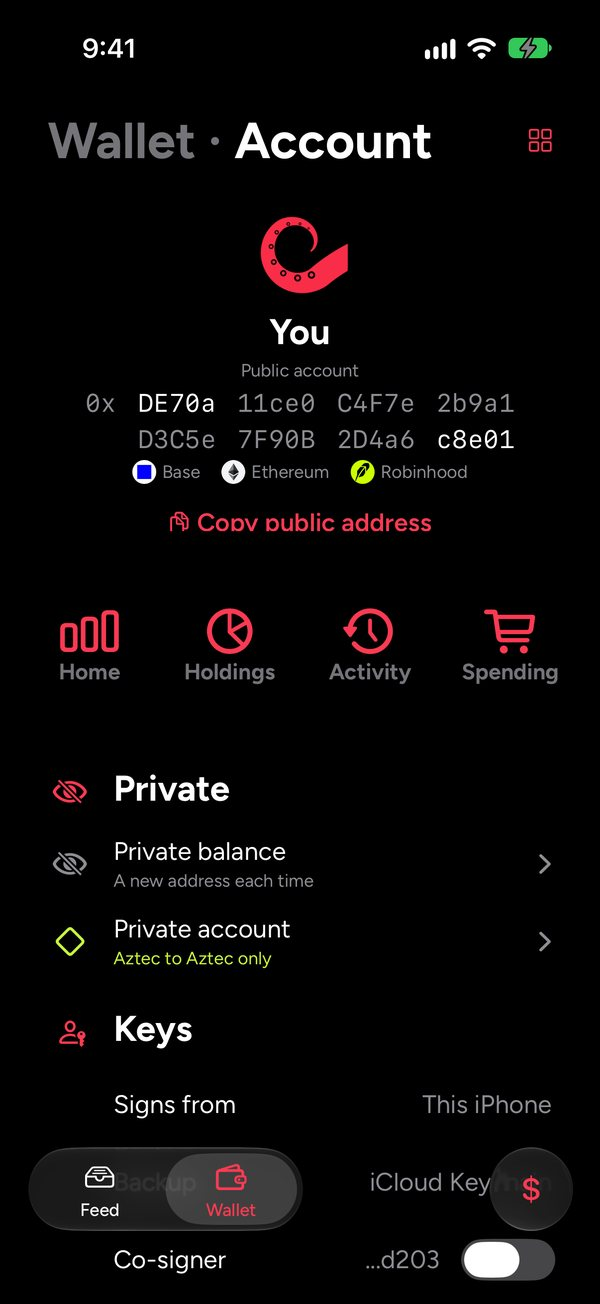
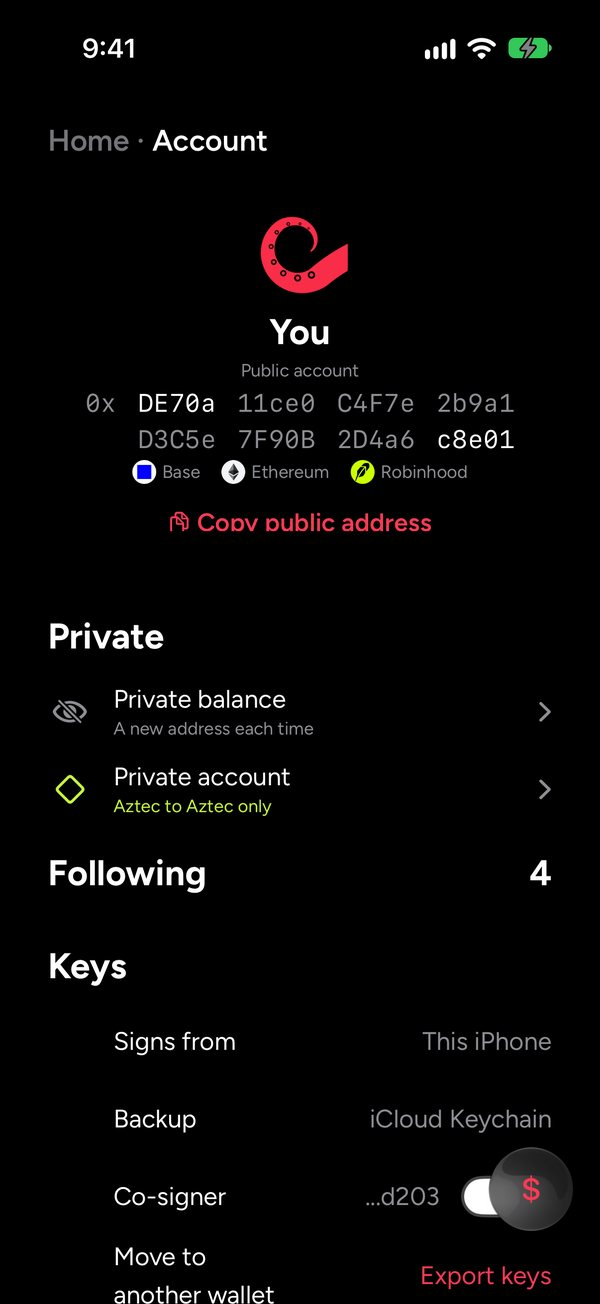
Website docs follow the one-wallet app: Home, Activity, and Move alone on the bar
The docs still described a Feed and Wallet bar. Since prd §1807 to §1814
the app is one wallet: Home is the balance over its map and six cards,
Activity is what needs you and one row per app, the bar is Move alone, Apps
is a card on Home, Risks holds Permissions, and Account holds Following and
Casberi's settings. Every page swipes right to its parent.

Home now comes before Activity, as in the app. The seven pictures are
today's screens (build 1009's demo). llms-full.txt and the FAQ's structured
data are rebuilt from the page; llms.txt and the law digest's shell line
follow.

diff --git a/website/docs.html b/website/docs.html
@@ -4,7 +4,7 @@
 <meta charset="utf-8">
 <meta name="viewport" content="width=device-width, initial-scale=1">
 <title>Casberi — Docs</title>
-<meta name="description" content="What Casberi does, and how to use it: the Feed, the Wallet, Move, Apps and Search.">
+<meta name="description" content="What Casberi does, and how to use it: Home, Activity, Move, Apps and Search.">
 <meta property="og:title" content="Casberi — Docs">
 <meta property="og:description" content="What Casberi does, and how to use it.">
 <meta property="og:type" content="article">
@@ -366,8 +366,8 @@
   <a class="top" href="#features">Features</a>
   <a class="top" href="#how-to-use">How to use</a>
   <a class="sub" href="#start">Start here</a>
-  <a class="sub" href="#feed">Feed</a>
-  <a class="sub" href="#wallet">Wallet</a>
+  <a class="sub" href="#home">Home</a>
+  <a class="sub" href="#activity">Activity</a>
   <a class="sub" href="#account">Your account</a>
   <a class="sub" href="#move">Move</a>
   <a class="sub" href="#private">Private money</a>
@@ -394,7 +394,7 @@
       <a href="#features"><span>1</span>Features</a>
       <a href="#how-to-use"><span>2</span>How to use</a>
     </div>
-    <p class="updated">Last updated November 14, 2026 · Describes Casberi 3.0.30. The App Store may be a version behind.</p>
+    <p class="updated">Last updated November 15, 2026 · Describes Casberi 3.0.30. The App Store may be a version behind.</p>
   </header>
 
   <!-- ================= FEATURES AT A GLANCE ================= -->
@@ -406,7 +406,7 @@
     <div class="glance-group" id="read">
       <h4>Read</h4>
       <div class="glance-grid">
-        <a class="glance" href="#feed"><b>Feed</b><span>Everything your apps bring in, in one list, by category. Or one app on its own.</span></a>
+        <a class="glance" href="#activity"><b>Activity</b><span>What happened, in your money and in every app you connect: one row per app, under what needs you.</span></a>
         <a class="glance" href="#apps"><b>Apps</b><span>Connect mail, photos, wallets, calendars and a hundred more apps.</span></a>
         <a class="glance" href="#search"><b>Search</b><span>Share from any app or take a screenshot, then find it by what it says.</span></a>
       </div>
@@ -415,7 +415,7 @@
     <div class="glance-group" id="money">
       <h4>Money</h4>
       <div class="glance-grid">
-        <a class="glance" href="#wallet"><b>Wallet</b><span>Every account you follow in one balance, with holdings, spending and risks. Following is read-only.</span></a>
+        <a class="glance" href="#home"><b>Home</b><span>Every account you have and follow in one balance, with holdings, spending and risks. Following is read-only.</span></a>
         <a class="glance" href="#account"><b>Your account</b><span>A public account (Safe) on Base, Ethereum and Robinhood, a private balance (Privacy Pools and Railgun) on Ethereum, and a private account (Aztec) on Aztec. Only your keys move them.</span></a>
         <a class="glance" href="#move"><b>Move</b><span>Send, receive, swap, sweep, lend, buy with a card or spend on a gift card. Face ID approves every move.</span></a>
       </div>
@@ -424,9 +424,9 @@
     <div class="glance-group" id="yours">
       <h4>Yours</h4>
       <div class="glance-grid">
-        <a class="glance" href="#subscriptions"><b>Subscriptions</b><span>What renews and when, found on its own. What it costs, in the Wallet.</span></a>
+        <a class="glance" href="#subscriptions"><b>Subscriptions</b><span>What renews and when, found on its own. What it costs, in Spending.</span></a>
         <a class="glance" href="#privacy"><b>Privacy</b><span>No sign-up, no server, no analytics. Every wallet read goes through Tor on iPhone and iPad.</span></a>
-        <a class="glance" href="#settings"><b>Your options</b><span>Your name and photo, the order of your Feed, widgets, theme, notifications, and where your data lives.</span></a>
+        <a class="glance" href="#settings"><b>Your options</b><span>Your name and photo, the order of Activity, widgets, theme, notifications, and where your data lives.</span></a>
       </div>
     </div>
   </section>
@@ -441,8 +441,8 @@
     <p class="deck">Four steps to start. Then one short page for each part of the app.</p>
     <div class="subtoc">
       <a href="#start">Start here</a>
-      <a href="#feed">Feed</a>
-      <a href="#wallet">Wallet</a>
+      <a href="#home">Home</a>
+      <a href="#activity">Activity</a>
       <a href="#account">Your account</a>
       <a href="#move">Move</a>
       <a href="#private">Private money</a>
@@ -458,45 +458,46 @@
 
     <h3 id="start">Start here</h3>
     <ol class="steps">
-      <li><b>Open it.</b> There’s no account and nothing to sign up for. It opens on your own Feed, empty, with six apps to start with.</li>
-      <li><b>Tap Apps</b>, the grid at the top right. It holds every app you can connect, by category.</li>
+      <li><b>Open it.</b> There’s no account and nothing to sign up for. It opens on Home: your balance, and six cards.</li>
+      <li><b>Tap Apps</b>, a card on Home. It holds every app you can connect, by category.</li>
       <li><b>Pick one and connect it.</b> Calendar and Photos are one tap; an account needs only an address.</li>
-      <li><b>Tap Feed.</b> What you connected is there.</li>
+      <li><b>Open Activity.</b> What you connected is there.</li>
     </ol>
-    <p>Casberi is two places along the bottom, and one act. <b>Feed</b> is what’s happening and <b>Wallet</b> is what you have; swipe between them. <b>Move</b>, the circle at the right, is what you do with your money. <b>Apps</b>, the grid at the top right, is your apps and Casberi’s settings, and its field is Search. On the Mac, Feed, Wallet, Apps and Move run down the side, ⌘1 to ⌘4 open them, and ⌘F goes to Apps’ field.</p>
-    <div class="pager"><a href="#feed"><span>Next</span>Feed →</a></div>
+    <p>Casberi is one wallet, in three parts. <b>Home</b> is what you have: your balance, a map of what it’s in, and six cards — Account, Activity, Apps, Holdings, Risks and Watchlist. <b>Activity</b> is what happened, in your money and your apps; it’s a card on Home, and one swipe to its side. <b>Move</b>, the circle at the bottom, is what you do with your money, and the only thing on the bar. A page’s title says where you are: its grey words go back, and so does a swipe to the right. On the Mac, Home, Activity, Apps and Move run down the side, ⌘1 to ⌘4 open them, and ⌘F goes to Apps’ field.</p>
+    <div class="pager"><a href="#home"><span>Next</span>Home →</a></div>
 
-    <h3 id="feed">Feed</h3>
-    <p>The Feed puts every app you connect in one list, so you don’t open ten apps to see what happened today.</p>
-    <figure class="shot tall fade"><div class="frame"><img src="shots/feed.jpg" alt="The Feed: the newest thing, then a section for each category, with Feed, Wallet and Move along the bottom and Apps at the top right." width="300" height="652" loading="lazy"></div></figure>
-    <p>It leads with the newest thing, then <b>Newest</b>: the five latest, whatever day they came. Under that, one section per category — Day, Notes, Social, Work, Media, Life and Agents — each with today’s rows, one per app. Tap a section’s name for the whole category, or an app for that app alone. A section’s <b>+</b> adds what fits there: an event or a reminder in Day, a note or a voice note in Notes.</p>
-    <p><b>Day</b> is what’s ahead: meetings, reminders and renewals, in date order. Money isn’t in the Feed; it has the Wallet.</p>
-    <p>Tap any row to open it, then open it in the app it came from, or share it. Some rows let you act in place: start an email, put an event on your calendar, turn a note into a reminder. Each write asks first.</p>
-    <div class="pager"><a href="#wallet"><span>Next</span>Wallet →</a></div>
-
-    <h3 id="wallet">Wallet</h3>
-    <p>The Wallet adds up every account you have and follow, so you see all your money in one place, and what could hurt it.</p>
-    <figure class="shot tall fade"><div class="frame"><img src="shots/wallet.jpg" alt="The Wallet’s Home: one balance and its line, then Account, Needs you, Permissions, Risks and Watchlist." width="300" height="652" loading="lazy"></div></figure>
+    <h3 id="home">Home</h3>
+    <p>Home adds up every account you have and follow, so you see all your money in one place, and what could hurt it.</p>
+    <figure class="shot tall fade"><div class="frame"><img src="shots/home.jpg" alt="Home: one balance over a map of what it’s in, Public and Private, then six cards: Account, Activity, Apps, Holdings, Risks and Watchlist." width="300" height="652" loading="lazy"></div></figure>
     <ul class="nothere">
-      <li><strong>See what you have.</strong> <b>Home</b> leads with your balance and its line. <b>Holdings</b> is Public and Private: your tokens, positions and NFTs, then every private balance — Privacy Pools, Railgun and Aztec — in one block. <b>Activity</b> lists every transaction by day.</li>
-      <li><strong>Choose whose money.</strong> The switch under the balance — <b>Yours · Following · All</b> — shows your own account, the accounts you follow, or everything added up. Every page of the Wallet follows it.</li>
+      <li><strong>See what you have.</strong> Home leads with your balance over a map of the tokens it’s in, then Public and Private as two figures. <b>Holdings</b> is Public and Private: your tokens, positions and NFTs, then everything private — Privacy Pools, Railgun and Aztec — in one block.</li>
+      <li><strong>Choose whose money.</strong> The switch under the balance — <b>Yours · Following · All</b> — shows your own account, the accounts you follow, or everything added up. Every page follows it.</li>
       <li><strong>See what you spend.</strong> <b>Spending</b> sets this week or month against the last one, split into Subscriptions, Places, Fees and Round-ups. Fees and round-ups stay out of the total.</li>
-      <li><strong>See what could hurt you.</strong> <b>Needs you</b> lists everything waiting on you. <b>Permissions</b> lists who can spend from you, each approval one tap from a cancellation, and what you’ve let apps on Aztec do, each with Take back. <b>Risks</b> lists address poisoning, fake tokens and fake transfers, and what a privacy scan of your account found.</li>
-      <li><strong>Follow an account.</strong> Tap <b>+</b> and type an address, ENS, <code>.sol</code> or basename, or connect a wallet app or an exchange.</li>
+      <li><strong>See what could hurt you.</strong> <b>Risks</b> lists address poisoning, fake tokens and fake transfers, what a privacy scan of your account found, and who can spend from you: each approval one tap from a cancellation, and what you’ve let apps on Aztec do, each with Take back.</li>
+      <li><strong>Watch a token.</strong> <b>Watchlist</b> follows the price of any token, whether you hold it or not.</li>
+      <li><strong>Follow an account.</strong> <b>Following</b>, on Account, takes an address, ENS, <code>.sol</code> or basename, or a wallet app or an exchange.</li>
     </ul>
     <p><strong>Good to know:</strong> following is read-only. It asks for no permissions, so it can never trade or move funds.</p>
     <details class="more">
       <summary>If you use DeFi</summary>
-      <p>The Wallet also carries Aave and Morpho health, Uniswap positions in or out of range, Hyperliquid liquidation distance, Aerodrome locks and their weekly vote deadline, staked ETH and HYPE, exchange balances and validators — all in one total.</p>
+      <p>Home also carries Aave and Morpho health, Uniswap positions in or out of range, Hyperliquid liquidation distance, Aerodrome locks and their weekly vote deadline, staked ETH and HYPE, exchange balances and validators — all in one total.</p>
       <p>A Safe reads as a Safe: owners, threshold, signature queue. If this device is an owner, <b>Sign</b> sends that one signature to Safe’s own service after Face ID; it can never execute a transaction on its own. MetaMask Card, ether.fi and Plasma One card spends, Peer onramp fills, 0xBow deposits clearing and Railgun shields show as ordinary rows. Spam folds into a pile you can mute.</p>
     </details>
+    <div class="pager"><a href="#activity"><span>Next</span>Activity →</a></div>
+
+    <h3 id="activity">Activity</h3>
+    <p>Activity is what happened, in your money and in every app you connect, so you don’t open ten apps to see.</p>
+    <figure class="shot tall fade"><div class="frame"><img src="shots/activity.jpg" alt="Activity: Needs you, then Wallet and a section for each kind of app, one row per app." width="300" height="652" loading="lazy"></div></figure>
+    <p>It leads with <b>Needs you</b>: what’s waiting on you, in your account and in your apps. Then <b>Wallet</b>, your latest moves, and a section for each kind of app — Day, Notes, Social, Work, Media, Life and Agents — with one row per app, its newest thing. Tap a row to open the thing; tap its icon for that app alone.</p>
+    <p><b>Day</b> is each app’s next thing: meetings, reminders and renewals. <b>Wallet</b> opens Money, every move by day.</p>
+    <p>Tap any row to open it, then open it in the app it came from, or share it. Some rows let you act in place: start an email, put an event on your calendar, turn a note into a reminder. Each write asks first.</p>
     <div class="pager"><a href="#account"><span>Next</span>Your account →</a></div>
 
     <h3 id="account">Your account</h3>
     <p>An account of your own lets you move money from Casberi, with no phrase to write down. Casberi never holds it: only your keys can move it. It lives on Base, Ethereum and Robinhood.</p>
     <p>It comes in three parts: your <b>public account</b> (a Safe, on Base, Ethereum and Robinhood), your <b>private balance</b> (Privacy Pools and Railgun, on Ethereum) and your <b>private account</b> (Aztec, on Aztec). See <a href="#private">Private money</a>. The private account is made the first time you use it, from a key in your iCloud Keychain, and every transaction it makes is proved on your iPhone.</p>
-    <figure class="shot tall fade"><div class="frame"><img src="shots/account.jpg" alt="Account: your public account’s address and networks, two private doors, then your keys." width="300" height="652" loading="lazy"></div></figure>
-    <p>Your account is made the first time you open the Wallet. <b>Finish setup</b>, on the Wallet’s Home, takes four steps:</p>
+    <figure class="shot tall fade"><div class="frame"><img src="shots/account.jpg" alt="Account: your public account’s address and networks, two private doors, Following, then your keys." width="300" height="652" loading="lazy"></div></figure>
+    <p>Your account is made for you the first time you open Casberi. <b>Finish setup</b>, on Home, takes four steps:</p>
     <ol class="steps">
       <li><b>A recovery key in iCloud Keychain.</b> If you lose this device, your account opens on another.</li>
       <li><b>A co-signer in another wallet</b>, if you want one. That wallet signs once to prove it can.</li>
@@ -504,7 +505,7 @@
       <li><b>Round-ups</b>, if you want them. See <a href="#move">Move</a>.</li>
     </ol>
     <ul class="nothere">
-      <li><strong>See your account.</strong> <b>Account</b>, on the Wallet’s Home, opens on your public account: its address, its networks and Copy. Under it, Private is a door each to your private balance and your private account. Then your keys: this iPhone, Backup, the co-signer and Export keys. Then Networks, Tor and Nodes, and last, round-ups and your savings goal.</li>
+      <li><strong>See your account.</strong> <b>Account</b>, a card on Home, opens on your public account: its address, its networks and Copy. Under it, Private is a door each to your private balance and your private account, and Following is the accounts you follow. Then your keys: this iPhone, Backup, the co-signer and Export keys. Then Networks, Tor and Nodes, round-ups and your savings goal, and last, Casberi’s settings.</li>
       <li><strong>See your Aztec address.</strong> <b>Private account</b> opens a page of its own: your Aztec address, one tap to copy, under its rule, Aztec to Aztec only. The address at the top of Account is always your public one.</li>
       <li><strong>Check your recovery key.</strong> Once a month, Needs you asks you to: Face ID and a test signature, no fee, nothing sent.</li>
       <li><strong>Take it elsewhere.</strong> <b>Export keys</b> asks which account. For your Safe it makes a new private key, adds it as an owner on every network, Robinhood included, and shows it once, so the account opens in another wallet without Casberi. For Aztec it shows the account’s own keys once. Your co-signer approves either.</li>
@@ -597,9 +598,9 @@
     <div class="pager"><a href="#apps"><span>Next</span>Apps →</a></div>
 
     <h3 id="apps">Apps</h3>
-    <p>Apps is where you connect apps and find everything that’s yours. It’s the grid at the top right of the Feed and the Wallet, and the last page when you swipe.</p>
+    <p>Apps is where you connect apps and find everything that’s yours. It’s a card on Home.</p>
     <figure class="shot tall fade"><div class="frame"><img src="shots/apps.jpg" alt="Apps: a search field, then a folder for each category with its apps." width="300" height="652" loading="lazy"></div></figure>
-    <p>It’s a search field and folders: Casberi’s own settings first, then a folder for each category with its apps. Tap an app you have and its feed rises; hold it for Open and Settings. Two open a page of their own: <b>Contacts</b>, in Social, and <b>Calendar</b>, in Day, which is your calendars and the ones you subscribe to. The Wallet folder starts with <b>Aztec directory</b>, where apps on Aztec open in Casberi; the ones you’ve connected stand beside it as tiles, and connect again on their own.</p>
+    <p>It’s a search field and folders, one for each category with its apps. Tap an app you have and its page opens; hold it for Open and Settings. Two open a page of their own: <b>Contacts</b>, in Social, and <b>Calendar</b>, in Day, which is your calendars and the ones you subscribe to. The Wallet folder starts with <b>Aztec directory</b>, where apps on Aztec open in Casberi; the ones you’ve connected stand beside it as tiles, and connect again on their own.</p>
     <p><b>Contacts</b> is everyone you deal with, one row a person: the cards on your phone, the people you follow and the names in your wallet. A contact with a wallet has <b>Send</b>, and one with a zk.money tag has <b>Pay</b>. When a transfer names an address you don’t know, <b>Save</b> asks who it is: someone you have, or a new name. Every transfer with them then reads the name.</p>
     <figure class="shot tall fade"><div class="frame"><img src="shots/contacts.jpg" alt="Contacts: everyone you deal with, one row a person." width="300" height="652" loading="lazy"></div></figure>
     <p>Over a hundred apps, connecting three ways:</p>
@@ -612,13 +613,13 @@
 
     <h3 id="subscriptions">Subscriptions</h3>
     <p>Casberi finds what you pay for again and again, so nothing renews without you seeing it.</p>
-    <p>Every subscription is in Apps, under <b>Subscriptions</b>, with the day it renews. Casberi finds a charge that repeats at one price, from your cards, Apple Wallet or Rocket Money. Add any it missed with <b>Track a subscription</b>. What they cost is in the Wallet, under Spending › Subscriptions, with the month’s total and a calendar of renewals.</p>
+    <p>Every subscription is in Apps, under <b>Subscriptions</b>, with the day it renews. Casberi finds a charge that repeats at one price, from your cards, Apple Wallet or Rocket Money. Add any it missed with <b>Track a subscription</b>. What they cost is in Spending, under Subscriptions, with the month’s total and a calendar of renewals.</p>
     <p>The mailing lists that write to you are under <b>Mail lists</b>, each with a way out. To follow a calendar you don’t own, paste its link — <code>webcal://</code> or an <code>.ics</code> — under Calendars. Its events land in Day.</p>
     <div class="pager"><a href="#notes"><span>Next</span>Notes →</a></div>
 
     <h3 id="notes">Notes</h3>
     <p>Notes keeps everything you write in one place: your own notes, and what Obsidian, Notion, Day One and Apple Journal hold.</p>
-    <p>It’s a section of the Feed; your notes’ page — All, Folders, Voice — is in Apps’ Notes folder. Check off a list, record a voice note, attach a picture or a sketch, file into folders, or lock one. A passage you keep from anything you read lands here as a highlight.</p>
+    <p>It’s a section of Activity; your notes’ page — All, Folders, Voice — is in Apps’ Notes folder. Check off a list, record a voice note, attach a picture or a sketch, file into folders, or lock one. A passage you keep from anything you read lands here as a highlight.</p>
     <div class="pager"><a href="#search"><span>Next</span>Search →</a></div>
 
     <h3 id="search">Search</h3>
@@ -665,7 +666,7 @@
     <div class="pager"><a href="#settings"><span>Next</span>Your options →</a></div>
 
     <h3 id="settings">Your options</h3>
-    <p>Casberi’s own settings come first in Apps: your photo and name, your data, the order of the Feed’s sections, theme, notifications, language, support and licenses.</p>
+    <p>Casberi’s own settings close the Account page: your photo and name, your data, the order of Activity’s sections, theme, notifications, language, support and licenses.</p>
     <p><strong>Your data</strong> is all on your device. Export, import or delete it anytime, and turn iCloud sync on if you want it.</p>
     <p><strong>Notifications</strong> are two switches, <b>Wallet</b> and <b>Feed</b>. They arrive as Casberi finds them, one per app.</p>
     <p><strong>An agent you bring</strong> — Claude, ChatGPT, Gemini, Venice, Bankr, OpenRouter, Grok, NEAR AI or Muse — connects from Apps like every other app. Its key lives in the Keychain, and what it sends goes from your device straight to that provider, billed to you. <strong>Your own model</strong> is a server you run that speaks OpenAI’s format: give its address, a key only if it asks for one, and pick a model. Apple Intelligence needs no key. In the composer, the agent you connected is picked; Send asks it, and if it fails, it says so. There is no Casberi server in between.</p>
@@ -673,7 +674,7 @@
     <h3 id="stuck" class="plain">If something’s missing</h3>
     <details>
       <summary>I connected an app and nothing showed up</summary>
-      <p>Pull down on the Feed to refresh. If it’s an Apple app, check iOS Settings → Casberi and make sure you said yes. Some apps are quiet on purpose: Trello, for instance, only shows cards assigned to you, and the app tells you so.</p>
+      <p>Pull down on Activity to refresh. If it’s an Apple app, check iOS Settings → Casberi and make sure you said yes. Some apps are quiet on purpose: Trello, for instance, only shows cards assigned to you, and the app tells you so.</p>
     </details>
     <details>
       <summary>My screenshots aren’t updating</summary>
@@ -681,11 +682,11 @@
     </details>
     <details>
       <summary>An account shows no balance</summary>
-      <p>Give the first read a moment, then pull to refresh. Pick <b>Following</b> on the Wallet’s switch and check the address.</p>
+      <p>Give the first read a moment, then pull to refresh. Pick <b>Following</b> on Home’s switch and check the address.</p>
     </details>
     <details>
       <summary>Tor can’t connect, or my wallets aren’t refreshing</summary>
-      <p>Wallet › Account shows Tor as On, Connecting or Can’t connect. Some networks block Tor: try another Wi-Fi, or cellular. Casberi starts Tor’s connections again when your network changes. Until it connects, each wallet shows its last reading, with its time.</p>
+      <p>Account shows Tor as On, Connecting or Can’t connect. Some networks block Tor: try another Wi-Fi, or cellular. Casberi starts Tor’s connections again when your network changes. Until it connects, each wallet shows its last reading, with its time.</p>
     </details>
     <details>
       <summary>A swap was refused before Face ID</summary>
@@ -723,8 +724,8 @@
     <details><summary>Is it audited?</summary><p>Casberi’s own code has not been independently audited. It deploys no contract of its own: your account is built from Safe’s audited contracts and, when you require your co-signer, Rhinestone’s audited OwnableValidator, and swaps call Uniswap, Aerodrome and Across contracts directly. Every move is run on the network before Face ID, and the source is public under the GPLv3.</p></details>
     <details><summary>How do round-ups work?</summary><p>Turn on round-ups and every send rounds up to the next $1 or $5, your pick. The change is set aside on Aave on Base, where it earns in the open. Once it reaches $10, the next send moves it into your private balance in Privacy Pools, where it keeps earning: one Face ID for both. What it saved is under Spending, in Round-ups, and stays out of your spending total.</p></details>
     <details><summary>How does my private balance work?</summary><p>It’s money only you can see, on Ethereum. You never choose where it sits: ETH and USDC go into 0xBow’s Privacy Pools, where 0xBow reviews each deposit before it can be spent and it earns interest on Aave once approved; any other token goes into Railgun, private in about an hour. Tap Add money under Private in Holdings, or in Move pick Send and choose Your private balance as the recipient, $10 at least. To pay from it, pick a private token in Send’s token list: a relayer or a Railgun broadcaster posts the payment for a fee shown before Face ID, so it doesn’t come from your account’s address. Take it back returns it to your account at any time. Your account owns it; Casberi never does.</p></details>
-    <details><summary>How does my private account on Aztec work?</summary><p>It’s an account of its own on Aztec, where your balance, payments and apps are all private. It’s made the first time you use it, from a key in your iCloud Keychain, and every transaction is proved on your iPhone. Send to <b>Your private account</b> to move USDC or ETH in through Shield, any amount you type; Shield first asks for a Human Passport score of 20, and the first time, 30 AZTEC goes along as gas. To pay from it, pick its token under Private in Send’s token list: privately to any Aztec account, or out to any Ethereum address. Aztec’s directory is in Apps’ Wallet folder: its apps open in Casberi, and connect once you pick Casberi in the app and match the emoji. An app you’ve connected stands beside the directory as a tile, and what you’ve let it do is in Wallet › Permissions, with Take back.</p></details>
-    <details><summary>What if Casberi goes away?</summary><p>Your money stays where it is. Export a private key from Wallet › Account: it’s added as an owner of your account and shown once, and the account opens in another wallet without Casberi.</p></details>
+    <details><summary>How does my private account on Aztec work?</summary><p>It’s an account of its own on Aztec, where your balance, payments and apps are all private. It’s made the first time you use it, from a key in your iCloud Keychain, and every transaction is proved on your iPhone. Send to <b>Your private account</b> to move USDC or ETH in through Shield, any amount you type; Shield first asks for a Human Passport score of 20, and the first time, 30 AZTEC goes along as gas. To pay from it, pick its token under Private in Send’s token list: privately to any Aztec account, or out to any Ethereum address. Aztec’s directory is in Apps’ Wallet folder: its apps open in Casberi, and connect once you pick Casberi in the app and match the emoji. An app you’ve connected stands beside the directory as a tile, and what you’ve let it do is in Risks, with Take back.</p></details>
+    <details><summary>What if Casberi goes away?</summary><p>Your money stays where it is. Export a private key from Account: it’s added as an owner of your account and shown once, and the account opens in another wallet without Casberi.</p></details>
     <details><summary>Which networks?</summary><p>Your account is on Base, Ethereum and Robinhood Chain. The accounts you follow are read on Ethereum, Base, Arbitrum, Optimism, Polygon, HyperEVM, Monad, World Chain, Arc, Tempo, Plasma, Robinhood Chain and Solana, plus Bitcoin wallets and the exchanges you connect.</p></details>
     <details><summary>Why Tor?</summary><p>So no service you ask about a wallet learns where you are, or that the wallets you look at belong to one person. It’s always on for wallet reads on iPhone and iPad, and your other apps never go through it.</p></details>
   </section>
@@ -859,8 +860,8 @@
 {"@type": "Question", "name": "Is it audited?", "acceptedAnswer": {"@type": "Answer", "text": "Casberi’s own code has not been independently audited. It deploys no contract of its own: your account is built from Safe’s audited contracts and, when you require your co-signer, Rhinestone’s audited OwnableValidator, and swaps call Uniswap, Aerodrome and Across contracts directly. Every move is run on the network before Face ID, and the source is public under the GPLv3."}},
 {"@type": "Question", "name": "How do round-ups work?", "acceptedAnswer": {"@type": "Answer", "text": "Turn on round-ups and every send rounds up to the next $1 or $5, your pick. The change is set aside on Aave on Base, where it earns in the open. Once it reaches $10, the next send moves it into your private balance in Privacy Pools, where it keeps earning: one Face ID for both. What it saved is under Spending, in Round-ups, and stays out of your spending total."}},
 {"@type": "Question", "name": "How does my private balance work?", "acceptedAnswer": {"@type": "Answer", "text": "It’s money only you can see, on Ethereum. You never choose where it sits: ETH and USDC go into 0xBow’s Privacy Pools, where 0xBow reviews each deposit before it can be spent and it earns interest on Aave once approved; any other token goes into Railgun, private in about an hour. Tap Add money under Private in Holdings, or in Move pick Send and choose Your private balance as the recipient, $10 at least. To pay from it, pick a private token in Send’s token list: a relayer or a Railgun broadcaster posts the payment for a fee shown before Face ID, so it doesn’t come from your account’s address. Take it back returns it to your account at any time. Your account owns it; Casberi never does."}},
-{"@type": "Question", "name": "How does my private account on Aztec work?", "acceptedAnswer": {"@type": "Answer", "text": "It’s an account of its own on Aztec, where your balance, payments and apps are all private. It’s made the first time you use it, from a key in your iCloud Keychain, and every transaction is proved on your iPhone. Send to Your private account to move USDC or ETH in through Shield, any amount you type; Shield first asks for a Human Passport score of 20, and the first time, 30 AZTEC goes along as gas. To pay from it, pick its token under Private in Send’s token list: privately to any Aztec account, or out to any Ethereum address. Aztec’s directory is in Apps’ Wallet folder: its apps open in Casberi, and connect once you pick Casberi in the app and match the emoji. An app you’ve connected stands beside the directory as a tile, and what you’ve let it do is in Wallet › Permissions, with Take back."}},
-{"@type": "Question", "name": "What if Casberi goes away?", "acceptedAnswer": {"@type": "Answer", "text": "Your money stays where it is. Export a private key from Wallet › Account: it’s added as an owner of your account and shown once, and the account opens in another wallet without Casberi."}},
+{"@type": "Question", "name": "How does my private account on Aztec work?", "acceptedAnswer": {"@type": "Answer", "text": "It’s an account of its own on Aztec, where your balance, payments and apps are all private. It’s made the first time you use it, from a key in your iCloud Keychain, and every transaction is proved on your iPhone. Send to Your private account to move USDC or ETH in through Shield, any amount you type; Shield first asks for a Human Passport score of 20, and the first time, 30 AZTEC goes along as gas. To pay from it, pick its token under Private in Send’s token list: privately to any Aztec account, or out to any Ethereum address. Aztec’s directory is in Apps’ Wallet folder: its apps open in Casberi, and connect once you pick Casberi in the app and match the emoji. An app you’ve connected stands beside the directory as a tile, and what you’ve let it do is in Risks, with Take back."}},
+{"@type": "Question", "name": "What if Casberi goes away?", "acceptedAnswer": {"@type": "Answer", "text": "Your money stays where it is. Export a private key from Account: it’s added as an owner of your account and shown once, and the account opens in another wallet without Casberi."}},
 {"@type": "Question", "name": "Which networks?", "acceptedAnswer": {"@type": "Answer", "text": "Your account is on Base, Ethereum and Robinhood Chain. The accounts you follow are read on Ethereum, Base, Arbitrum, Optimism, Polygon, HyperEVM, Monad, World Chain, Arc, Tempo, Plasma, Robinhood Chain and Solana, plus Bitcoin wallets and the exchanges you connect."}},
 {"@type": "Question", "name": "Why Tor?", "acceptedAnswer": {"@type": "Answer", "text": "So no service you ask about a wallet learns where you are, or that the wallets you look at belong to one person. It’s always on for wallet reads on iPhone and iPad, and your other apps never go through it."}}
 ]}

diff --git a/docs/law.md b/docs/law.md
@@ -49,7 +49,7 @@ Privacy, Reddit, Hegotá Frames (§1206) and Aztec's testnet room (§1688). Logo
 - A deadline is a bar with ticks, never a thumb (§1006).
 
 ### 3. Shell and navigation
-- The rooms tray is deleted (§1714), and Search with it: it is Apps' field (§1715). Library is named Apps (§1741). On the phone the bar is Feed · Wallet in the capsule with Move's circle apart at the trailing edge; Apps ends the Feed's and the Wallet's title row at the top right, and is still the last page of the swipe (§1783). The Mac's rail is Feed · Wallet · Apps and Move (§1402). The rail's face goes to the Feed. Every room draws its own name first (§930).
+- The rooms tray is deleted (§1714), and Search with it: it is Apps' field (§1715). Library is named Apps (§1741). On the phone the bar is Move alone; Home and Activity stand side by side on the swipe, Apps is a card on Home, and every page swipes right to its parent (§1809, §1814). The Mac's rail is Home · Activity · Apps and Move (§1807, §1402). The rail's face goes to the Feed. Every room draws its own name first (§930).
 - Rooms are reached from Library (a tap on an app of yours goes to its room, §1418) and the Feed's section names (a category's room, §1152). A Library folder's name opens the folder, never a room (§1714).
 - Search's results are unchanged by §1714: typing finds apps, accounts, people, notes and things in groups (§1171, §1185, §1589); Return opens an exact name or hands the words to Find.
 - Notes, Apps, Addresses and Settings are places in You, not in the walk: the swipe is You, then the categories. A pick cuts in place, never pushes; the title reads "You · <place>"; a swipe from any walks from Home's place (§1127, §1129, §1133).
